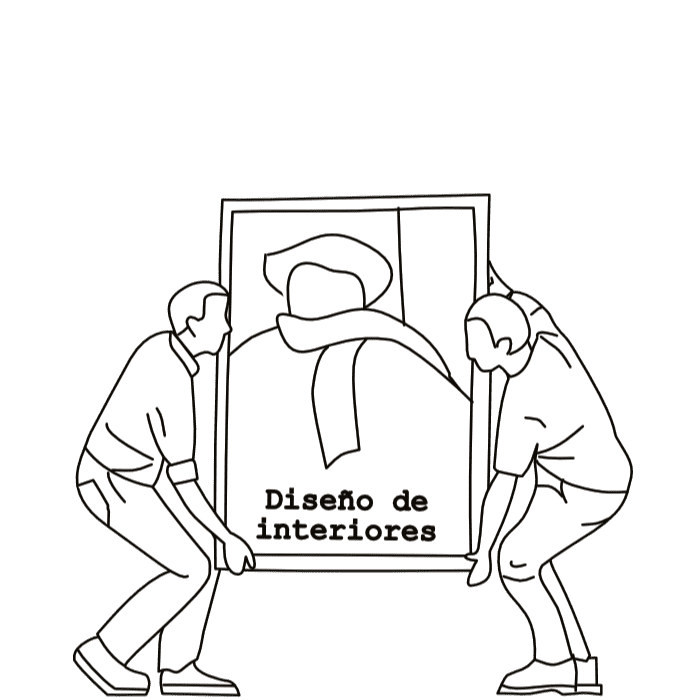
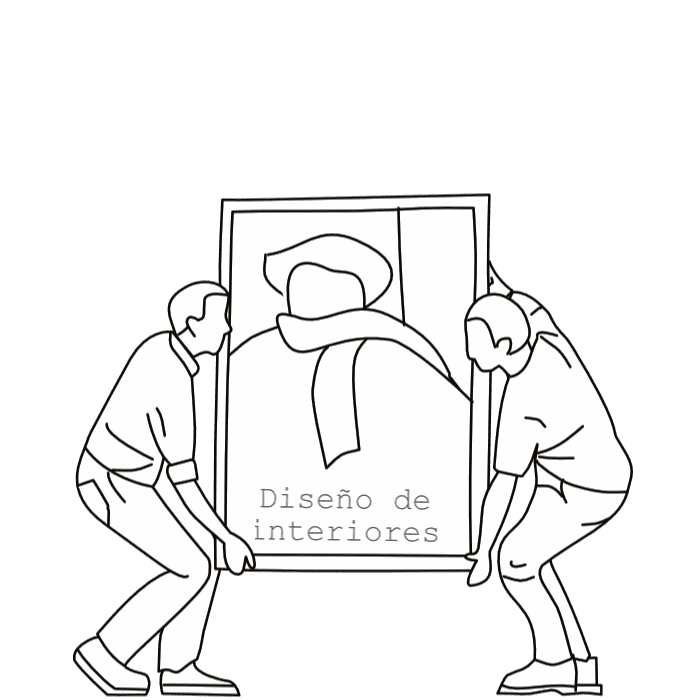
Diseño de interiores: sofá con pasos sincronizados y más recorrido; cartel del cuadro en gris fino
Claude-Session: https://claude.ai/code/session_01Tckd7FRN1Wj5sD4FJaZp8R

Changed region(s): [[0.36, 0.69, 0.63, 0.78]]

diff --git a/src/App.jsx b/src/App.jsx
@@ -1181,18 +1181,26 @@ export default function App() {
       }
 
         if (sofaRef.current && sofaImageRef.current) {
+          // Fotograma 2.png = reposo; 3.png-14.png = un ciclo de pasos.
+          // El avance va a velocidad constante y al mismo ritmo que los pasos
+          // (unos 0,68 % por fotograma) para que los pies no resbalen.
           const sofaRestFrame = 1 // Frame 2.png
+          const sofaFirstWalk = 2 // Frame 3.png
+          const sofaLastWalk = sofaFrames.length - 1 // Frame 14.png
+          const sofaFps = 6
+          const sofaStartLeft = '41.8%'
+          const sofaEndLeft = '50%'
           const sofaState = { frame: sofaRestFrame }
-          const totalFrames = sofaFrames.length
-          const frameDuration = totalFrames / 3
-          const maxFrame = totalFrames - 1
+          const walkDuration = (sofaLastWalk - sofaFirstWalk + 1) / sofaFps
+          const showSofaFrame = () => setAnimatedFrame(sofaImageRef, sofaFrames, sofaState.frame)
           const sofaPauseDuration = () => getRandomReversePause()
 
           gsap.set(sofaRef.current, {
             xPercent: -50,
             yPercent: -50,
-          willChange: 'transform',
-        })
+            left: sofaStartLeft,
+            willChange: 'transform',
+          })
 
           gsap.from(sofaRef.current, {
             opacity: 0,
@@ -1203,33 +1211,33 @@ export default function App() {
 
           sofaTweenRef.current = gsap
             .timeline({ repeat: -1, repeatRefresh: true })
+            // Ida: un fotograma de arranque y el ciclo de pasos.
+            .set(sofaState, { frame: sofaFirstWalk - 0.49, onComplete: showSofaFrame })
             .to(sofaState, {
-              frame: maxFrame,
-              duration: frameDuration,
-              ease: `steps(${maxFrame})`,
-              onUpdate: () => {
-                setAnimatedFrame(sofaImageRef, sofaFrames, sofaState.frame)
-              },
-            }, 0)
+              frame: sofaLastWalk + 0.49,
+              duration: walkDuration,
+              ease: 'none',
+              onUpdate: showSofaFrame,
+            })
             .to(sofaRef.current, {
-              left: '49.2%',
-              duration: 3,
-              ease: 'power1.inOut',
-            }, 0)
-            .to(sofaState, {
-              frame: sofaRestFrame,
-              duration: frameDuration,
-              ease: `steps(${maxFrame})`,
-              onUpdate: () => {
-                setAnimatedFrame(sofaImageRef, sofaFrames, sofaState.frame)
-              },
-            }, '>')
-            .to(sofaRef.current, {
-              left: '43.44%',
-              duration: 3,
-              ease: 'power1.inOut',
+              left: sofaEndLeft,
+              duration: walkDuration,
+              ease: 'none',
             }, '<')
-            // The sofa rests only after returning to frame 2.png and its origin.
+            // Vuelta: los mismos pasos al reves (caminan hacia atras).
+            .to(sofaState, {
+              frame: sofaFirstWalk - 0.49,
+              duration: walkDuration,
+              ease: 'none',
+              onUpdate: showSofaFrame,
+            })
+            .to(sofaRef.current, {
+              left: sofaStartLeft,
+              duration: walkDuration,
+              ease: 'none',
+            }, '<')
+            .set(sofaState, { frame: sofaRestFrame, onComplete: showSofaFrame })
+            // Descansan en 2.png en el punto de partida.
             .to({}, { duration: sofaPauseDuration })
 
           sofaMoveTweenRef.current = sofaTweenRef.current
@@ -1719,7 +1727,7 @@ export default function App() {
       imageRef: sofaImageRef,
       src: sofaFrames[1],
       alt: 'Sofa animado',
-      style: { left: '43.44%', top: '56.4%', width: '10%' },
+      style: { left: '41.8%', top: '56.4%', width: '10%' },
     },
     {
       id: 'jardinero',
